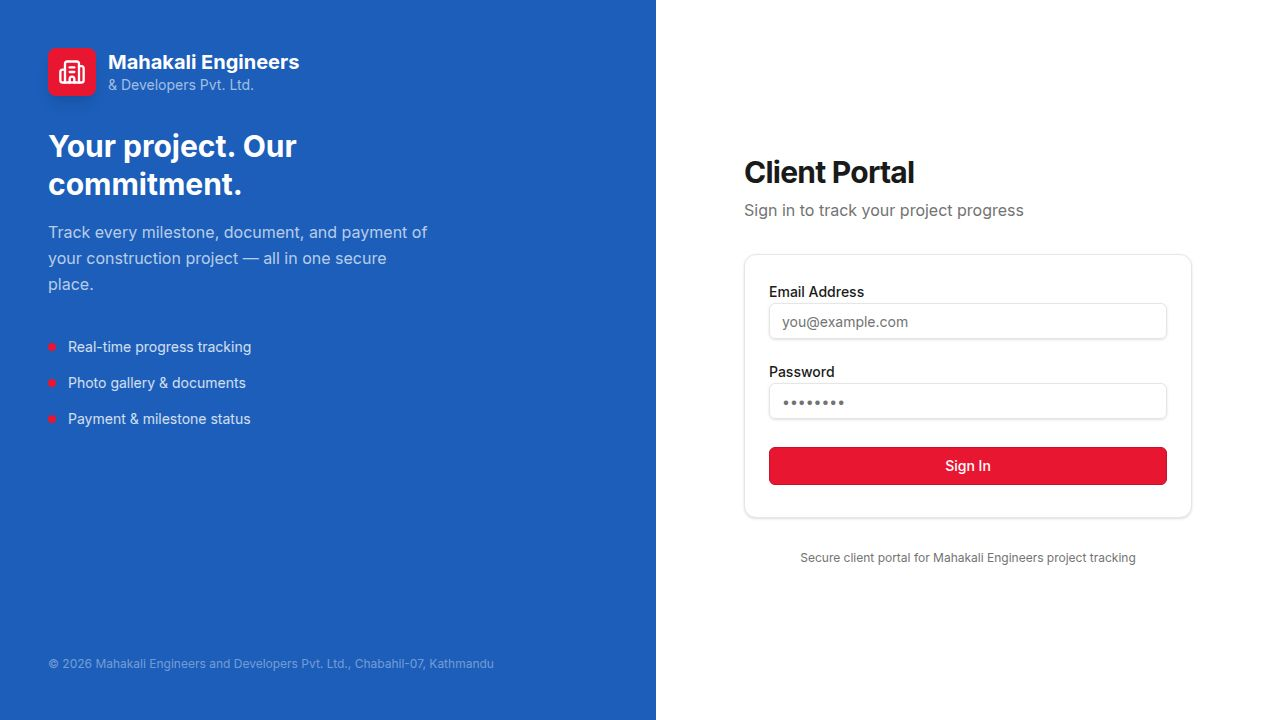
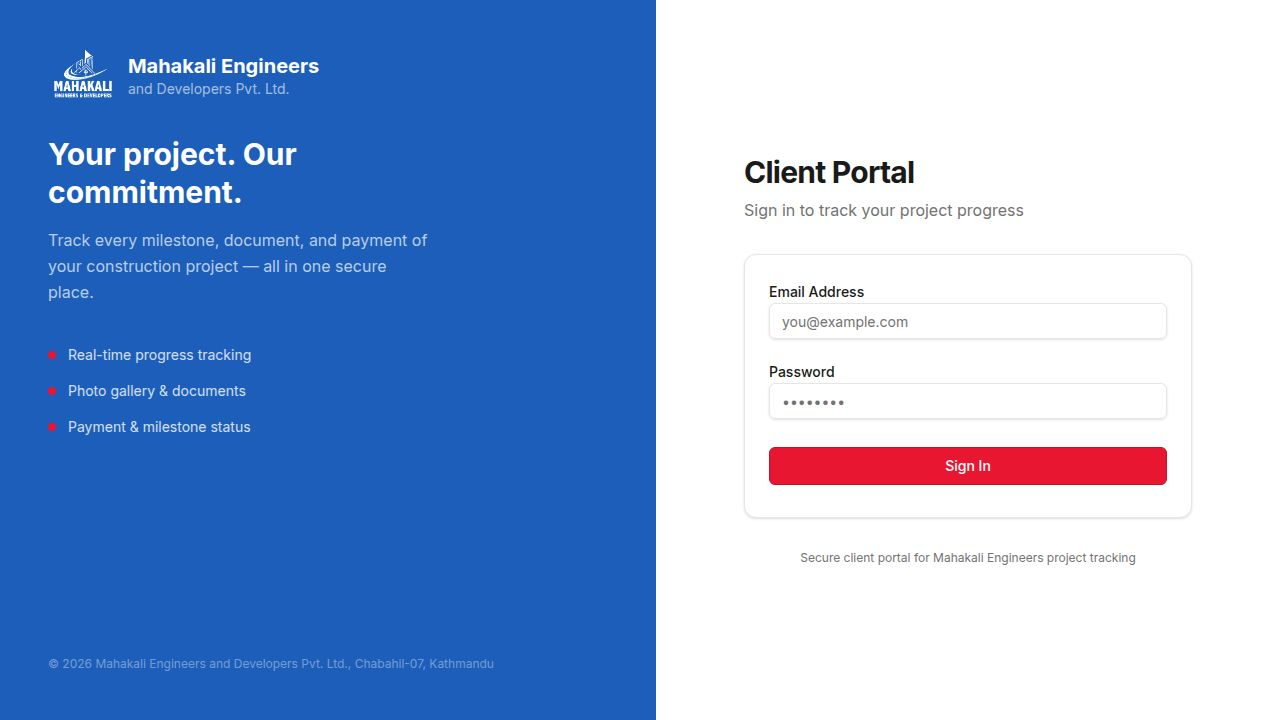
Update portal branding and fix redirect logic
Replace placeholder logo and name with company branding in the sidebar and mobile header. Fixes a React render warning by moving the user redirect logic into a useEffect hook.

Replit-Commit-Author: Agent
Replit-Commit-Session-Id: d3aa555f-fc2b-478f-b7f9-4dfc442fc94f
Replit-Commit-Checkpoint-Type: full_checkpoint
Replit-Commit-Event-Id: fd49e8d9-bbcc-48dc-b181-4fdcc893c488
Replit-Commit-Screenshot-Url: https://storage.googleapis.com/screenshot-production-us-central1/bf2a7aed-0514-4427-a8b1-13237a874328/d3aa555f-fc2b-478f-b7f9-4dfc442fc94f/jjV7iLH
Replit-Helium-Checkpoint-Created: true

Changed region(s): [[0.0312, 0.1833, 0.3438, 0.4278], [0.0312, 0.4583, 0.2188, 0.6111], [0.0312, 0.0611, 0.25, 0.1528]]

diff --git a/artifacts/portal/src/components/layout.tsx b/artifacts/portal/src/components/layout.tsx
@@ -1,21 +1,28 @@
+import { useEffect } from "react";
 import { useAuth } from "@/contexts/auth";
 import { Link, useLocation } from "wouter";
 import { Button } from "@/components/ui/button";
 import { useLogout } from "@workspace/api-client-react";
 import { 
-  Building2, 
   LayoutDashboard, 
   Users, 
   FolderKanban,
   LogOut,
   Loader2
 } from "lucide-react";
+import logoImg from "@/assets/logo.png";
 import { cn } from "@/lib/utils";
 
 export function Layout({ children }: { children: React.ReactNode }) {
   const { user, isLoading } = useAuth();
   const [location, setLocation] = useLocation();
   const logout = useLogout();
+
+  useEffect(() => {
+    if (!isLoading && !user) {
+      setLocation("/");
+    }
+  }, [isLoading, user, setLocation]);
 
   if (isLoading) {
     return (
@@ -26,7 +33,6 @@ export function Layout({ children }: { children: React.ReactNode }) {
   }
 
   if (!user) {
-    setLocation("/");
     return null;
   }
 
@@ -53,9 +59,12 @@ export function Layout({ children }: { children: React.ReactNode }) {
       {/* Sidebar */}
       <aside className="w-64 border-r bg-card flex flex-col hidden md:flex">
         <div className="h-16 flex items-center px-6 border-b">
-          <Link href="/dashboard" className="flex items-center gap-2 font-bold text-lg text-primary">
-            <Building2 className="h-6 w-6" />
-            <span>Mahakali Eng.</span>
+          <Link href="/dashboard" className="flex items-center gap-2">
+            <img src={logoImg} alt="Mahakali Engineers and Developers" className="h-9 w-auto object-contain" />
+            <div className="leading-tight">
+              <div className="text-sm font-bold text-foreground">Mahakali Engineers</div>
+              <div className="text-xs text-muted-foreground">& Developers Pvt. Ltd.</div>
+            </div>
           </Link>
         </div>
         
@@ -95,8 +104,11 @@ export function Layout({ children }: { children: React.ReactNode }) {
       {/* Main Content */}
       <main className="flex-1 flex flex-col min-w-0">
         <header className="h-16 border-b bg-card flex items-center px-6 md:hidden">
-          <Building2 className="h-6 w-6 text-primary mr-2" />
-          <span className="font-bold">Mahakali</span>
+          <img src={logoImg} alt="Mahakali Engineers and Developers" className="h-8 w-auto object-contain mr-2" />
+          <div className="leading-tight">
+            <div className="text-sm font-bold">Mahakali Engineers</div>
+            <div className="text-xs text-muted-foreground">& Developers Pvt. Ltd.</div>
+          </div>
         </header>
         <div className="flex-1 p-6 md:p-8 overflow-auto">
           <div className="max-w-6xl mx-auto">
